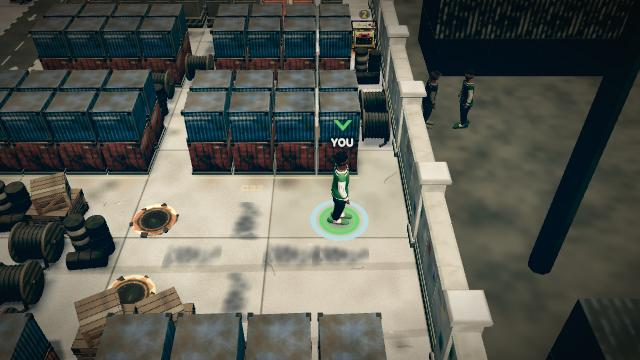
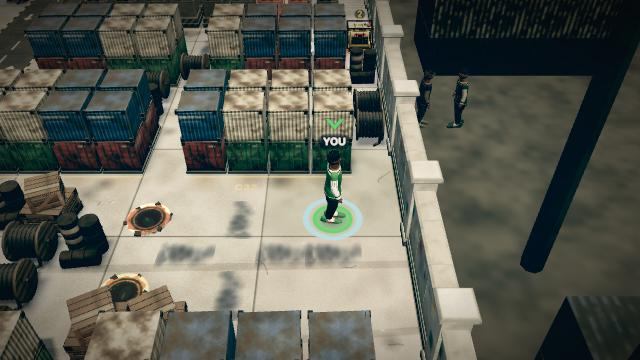
V2 F: reviewed stage screenshots, final previews, decision note on the obstacle hash
Claude-Session: https://claude.ai/code/session_0182TEPBQC46AFtTShhZuRhP

diff --git a/docs/DECISIONS.md b/docs/DECISIONS.md
@@ -315,7 +315,7 @@ No simulation rule, timing or balance number changed. The Academy runs the real 
 | WF7 | **Three new hazard styles** (presentation and credit only; the mechanics are the existing `strike` / `sweep`): `truck` (Apapa: an articulated container truck races a port road; a new procedural model driven like the other sweep vehicles, alert TRUCK, deep horn, never voiced as a Danfo), `cargo` (Apapa: a container lowered by a quay crane onto a marked 2 x 2 aisle zone, 2.2 s warning, one container model over the zone, heavy shake) and `goods` (Lagos Island: bales and cartons tumbling off a shopfront onto two marked aisle tiles, 1.8 s warning, the arena's own soft-block models fall). HUD alert texts and synthesised warning / impact sounds added. | `sim/types.ts` (appended), `render/views/StageHazardViews.ts`, `render/views/hazardTruck.ts`, `assets/stagePresentation.ts`, `app/stageAlerts.ts`, `audio/eventRouter.ts`, `ui/StageAlerts.tsx` |
 | WF8 | Stage hazard choice per stage: Oshodi = traffic on 10 long routes (carriageways, cross roads, BRT, both directions, 4 ticks/tile) + Danfos in and out of 4 corner bays; Lagos Island = `goods` strikes + `merch` drops (4 crates, route obstructions) + slow traffic on the access roads; Ojuelegba = traffic on the two three-lane roads + taxis (`checkpoint` style) down the queue lanes under the bridge + `merch` drops (vendors' obstacles); Apapa = `cargo` strikes (28 zones) + `truck` sweeps on the haul and quay roads; Lekki = targeted crane debris + `debris` strikes on 16 machine zones. Every sweep route starts at the board edge. | `sim/arenas/rumble*.ts` |
 | WF9 | Every Rumble stage uses the stadium follow camera: `STADIUM_ARENAS` is now derived from `RUMBLE_ARENA_IDS` instead of naming `cityRumble`. | `render/cameraModes.ts` |
-| WF10 | **Obstacle families by region** (`ObstacleStyle.pillarZones`, presentation only): flyover piers under the Ojuelegba bridge and the Oshodi flyover band, building corners elsewhere; poster-covered precast posts in the Lagos Island plazas and shopfront piers on its access roads; scaffold bays in the Lekki maze corners; precast transit-shed panels in the Apapa corners. Three new generated pillar models: `prop_pillar_container_a/_b` (two stacked short boxes, fictional markings) and `prop_pillar_scaffold` (tube-and-coupler bay, plywood hoarding, debris netting). | `render/assets/obstacleStyles.ts`, `render/views/ArenaView.ts`, `tools/assets/env_pillars_v2.py` |
+| WF10 | **Obstacle families by region** (`ObstacleStyle.pillarZones`, presentation only): flyover piers under the Ojuelegba bridge and the Oshodi flyover band, building corners elsewhere; poster-covered precast posts in the Lagos Island plazas and shopfront piers on its access roads; scaffold bays in the Lekki maze corners; precast transit-shed panels in the Apapa corners. Zoned styles pick models with a mixing hash (the legacy per-tile hash is always even, so a two-model family drew only its first model); zone-less styles keep the legacy hash, so the approved standard arenas do not reshuffle. Three new generated pillar models: `prop_pillar_container_a/_b` (two stacked short boxes, fictional markings) and `prop_pillar_scaffold` (tube-and-coupler bay, plywood hoarding, debris netting). | `render/assets/obstacleStyles.ts`, `render/views/ArenaView.ts`, `tools/assets/env_pillars_v2.py` |
 | WF11 | Each stage has its own look (light, fog, lamps), painted floor and surroundings module (`render/arenas/rumble*Art.ts`), built from the existing kits (Oshodi flyover / signs / umbrellas, market stalls, roadworks machines and structures, Third Mainland trucks and booth, StreetLife, Ambient). Lekki Nightworks keeps the approved Lekki Roadworks night values (sky, fog colour, sun, hemi, exposure, grit). Nothing stands on the board and the camera side stays under 1 m (tested on every triangle). No fights or area-boy scenes in the V2 stages; shop, ship and sign names are fictional. | `render/arenas/`, `tests/render/rumble-stage-sets.test.ts` |
 | WF12 | **Music**: one founder track per stage as playlist, start and signature: Oshodi `pixabay_601035`, Lagos Island `pixabay_554543`, Ojuelegba `pixabay_515507`, Apapa `pixabay_455231`, Lekki Nightworks `pixabay_623364`. | `public/audio/music/manifest.json`, `tests/audio/assets.test.ts` |
 | WF13 | `RumbleStagePicker` (cards: preview or mood gradient, lighting, board size, tagline, hazards; swipe strip, one card per screen width on phones) writes `settings.rumbleArenaId`; stream D places it in the menu. | `ui/RumbleStagePicker.tsx` |
